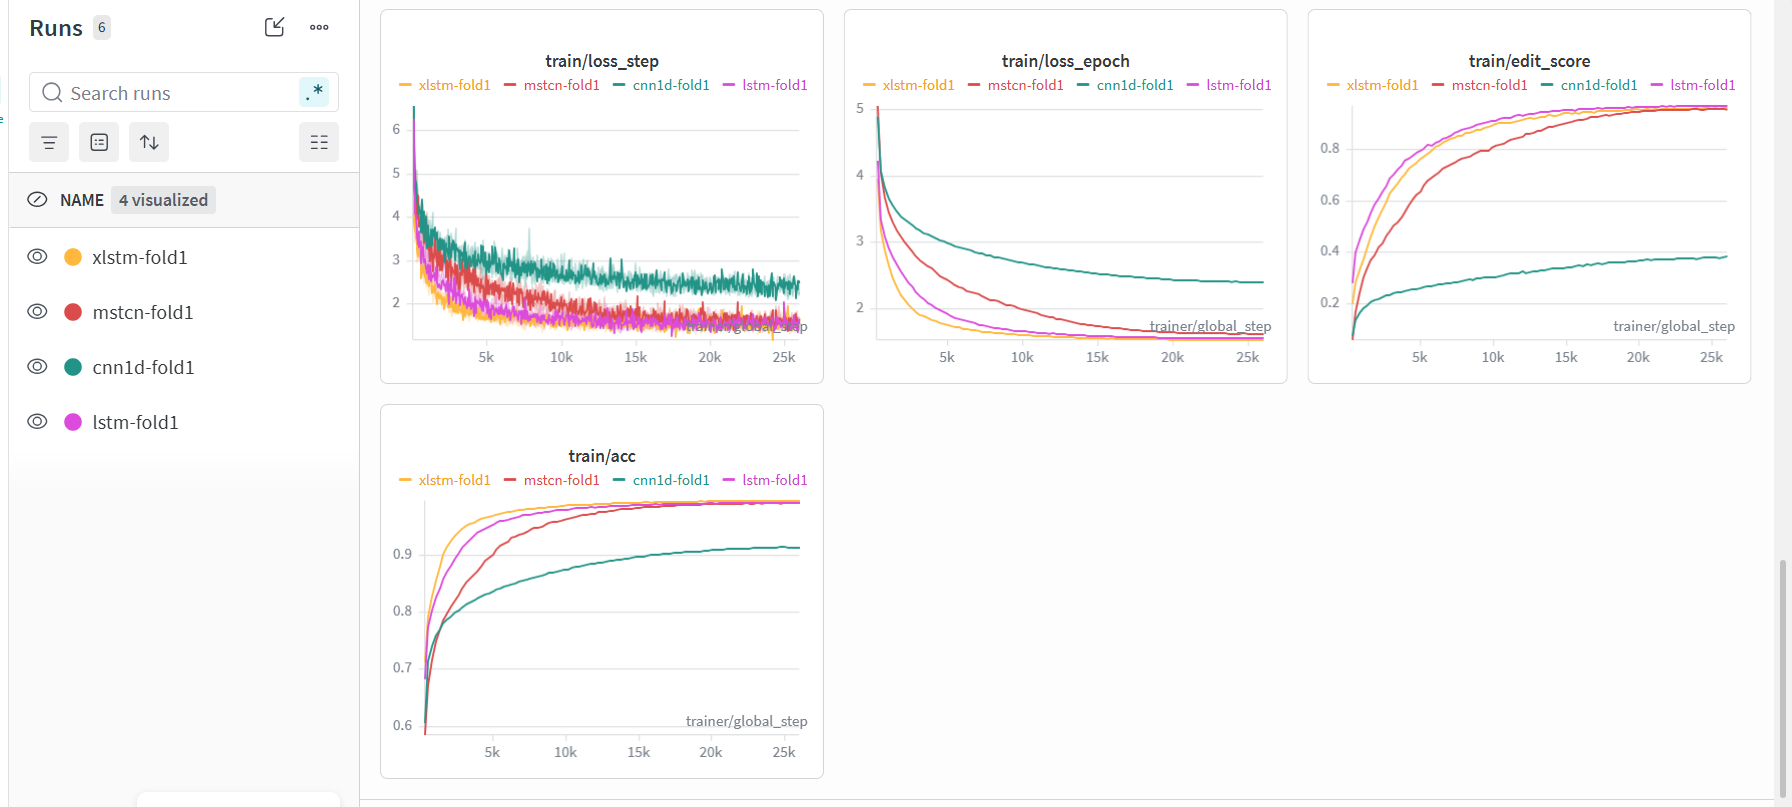
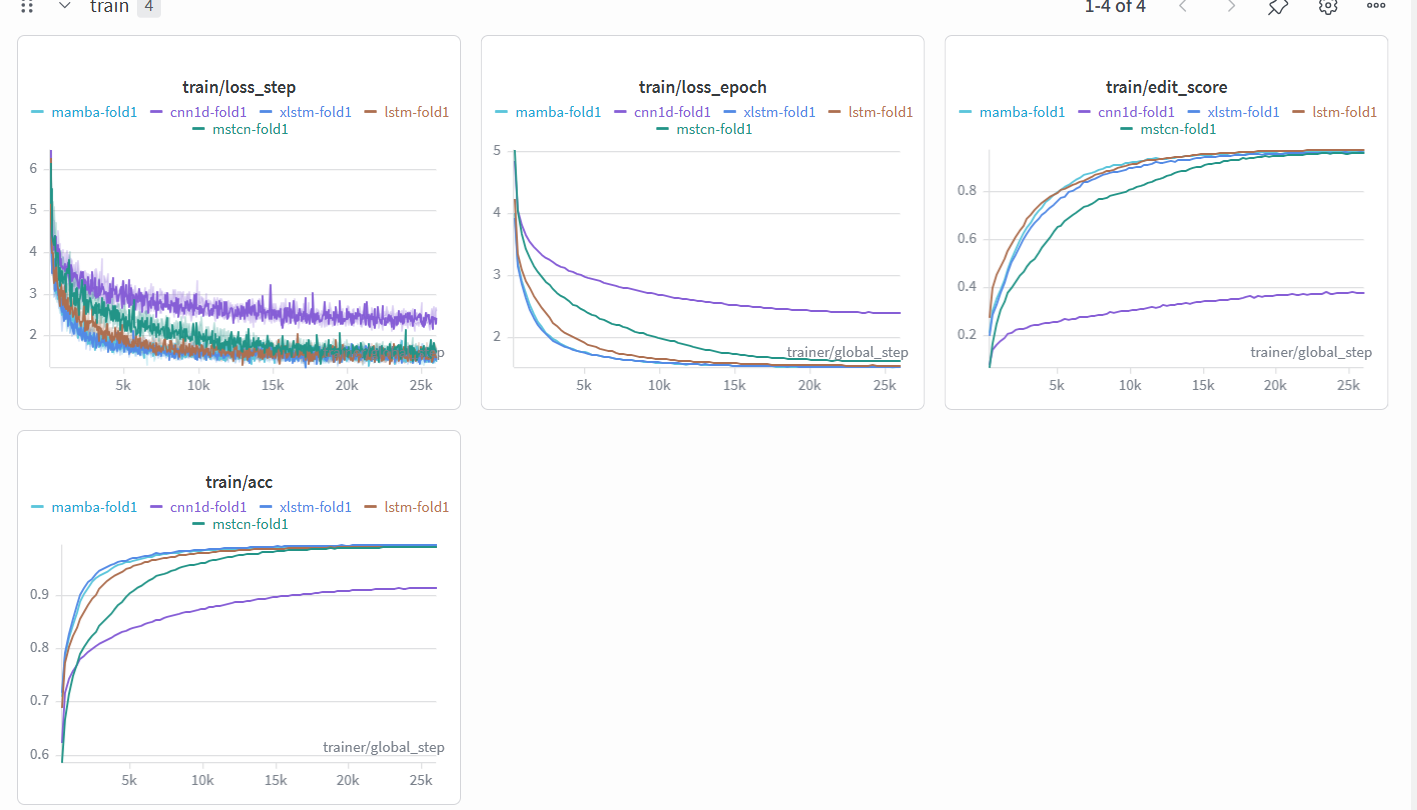
feat(docs): Update REPORT.md and relazione.tex with Mamba analysis

diff --git a/docs/relazione.tex b/docs/relazione.tex
@@ -375,6 +375,8 @@ Rispetto all'LSTM bidirezionale, Mamba opera in modo causale (forward only):
 non ha accesso al futuro, ma la selective scan con stato
 $d_{\text{state}}=16$ permette di mantenere un contesto efficace su centinaia
 di frame. Si usa la libreria ufficiale \texttt{mamba-ssm}.
+L'analisi qualitativa degli errori \`e riportata in
+Sezione~\ref{sec:qual_mamba}.
 
 \subsection{MS-TCN++}
 MS-TCN++ \cite{li2020mstcn2} \`e un'implementazione fedele al repository
@@ -398,12 +400,6 @@ risolverla. Con 10 layer e dilation fino a $2^9=512$ il campo recettivo
 copre l'intera finestra di 128 frame --- come LSTM ma completamente
 parallelizzabile, poiché le convoluzioni non hanno dipendenze sequenziali.
 
-\begin{figure}[H]
-\centering
-\includegraphics[width=\textwidth]{notebooks/mstcn_pipeline_output.png}
-\caption{Pipeline MS-TCN++: stage di Prediction Generation seguito dagli
-         stage di Refinement.}
-\end{figure}
 
 %%% SEZIONE 4 %%%
 \section{Metodologia di Training}
@@ -835,7 +831,8 @@ ma su numeri di frame troppo piccoli per costituire un errore sistematico.
 \subsection{Mamba}
 \label{sec:qual_mamba}
 
-Mamba mostra un profilo quasi identico a xLSTM: anticipa l'inizio di 2.4 frame
+Mamba mostra un profilo quasi identico a xLSTM (architettura in
+Sezione~\ref{sec:mamba}): anticipa l'inizio di 2.4 frame
 e ritarda la fine di 2.0 frame, con deviazione standard (25.0 / 22.9 frame)
 analoga a xLSTM (29.4 / 11.6) e molto inferiore a MS-TCN++ e LSTM ($\sim$57--64
 frame). La mediana nulla su entrambi gli estremi indica che la maggioranza delle
@@ -879,7 +876,7 @@ lunghe in modo analogo al memory mixing di xLSTM.
 
 \begin{figure}[H]
 \centering
-\includegraphics[width=\textwidth]{figures/eval/mamba_mamba-1779982759-fold1/boundary_errors.png}
+\includegraphics[width=\textwidth]{figures/eval/mamba-1779982759/boundary_errors.png}
 \caption{Mamba: errori di confine quasi nulli su 2021 clip
          (inizio $-2.4$, fine $+2.0$), profilo paragonabile a xLSTM.}
 \label{fig:boundary_mamba}
@@ -926,18 +923,25 @@ segmenti sono disgiunti (IoU $= 0$) e il decay non scatterebbe mai.
 MS-TCN++ & $-9.7$ & $-9.4$ & $+10.4$ & $+10.3$ \\
 LSTM     & $-8.6$ & $-8.6$ & $+9.2$  & $+9.0$  \\
 xLSTM    & $-2.6$ & $-2.2$ & $+1.0$  & $+0.1$  \\
+Mamba    & $-2.4$ & $-1.6$ & $+2.0$  & $+1.5$  \\
 CNN1D    & $-4.1$ & $-4.1$ & $+5.1$  & $+4.9$  \\
 \bottomrule
 \end{tabular}
 \end{table}
 
-Soft-NMS produce effetti reali ma contenuti su tutti e quattro i modelli.
+Soft-NMS produce effetti reali ma contenuti su tutti e cinque i modelli.
 La riduzione pi\`u evidente \`e sull'errore di fine di xLSTM ($+1.0 \to +0.1$)
-e sulla top confusion di MS-TCN++ ($138 \to 133$ frame). L'effetto \`e limitato
-dalla coerenza delle finestre sovrapposte: se due finestre concordano gi\`a
-sulla stessa classe, la proposta pi\`u debole ha score comunque alto e il decay
-non la sopprime. Il beneficio sarebbe maggiore su modelli meno precisi o con
-$\sigma$ pi\`u piccolo (decay pi\`u aggressivo).
+e sulla top confusion di MS-TCN++ ($138 \to 133$ frame).
+Mamba beneficia di una riduzione degli errori di confine
+(inizio $-2.4 \to -1.6$, fine $+2.0 \to +1.5$), ma la top confusion cambia:
+la coppia originale (\textit{Take plate} $\to$ \textit{Put eating\_utensil},
+12 frame) scende sotto soglia e la nuova top \`e
+\textit{Mix mixture} $\to$ \textit{Mix egg} a 16 frame --- segno che
+Soft-NMS redistribuisce le predizioni senza eliminare le ambiguit\`a semantiche.
+L'effetto \`e limitato dalla coerenza delle finestre sovrapposte: se due
+finestre concordano gi\`a sulla stessa classe, la proposta pi\`u debole ha
+score comunque alto e il decay non la sopprime. Il beneficio sarebbe maggiore
+su modelli meno precisi o con $\sigma$ pi\`u piccolo (decay pi\`u aggressivo).
 
 %%% SEZIONE 7 %%%
 \section{Conclusioni}

diff --git a/docs/REPORT.md b/docs/REPORT.md
@@ -43,8 +43,7 @@ Rispetto al semplice uso di codice esistente, i contributi tecnici principali so
 - Loss combinata CE + Smooth + Boundary con motivazione esplicita per ciascun termine.
 - Sliding window in validazione con overlap 50% per una valutazione riproducibile.
 - Data augmentation temporale (shift casuale delle label) per ridurre il bias di anticipazione/ritardo.
-- **Pipeline di estrazione feature DINOv3**: script di estrazione streaming (`src/utils/extract_dinov3_features.py`) che processa i video raw EGTEA frame per frame con DINOv3 ViT-B (`facebook/dinov3-vitb16-pretrain-lvd1689m`), producendo vettori d = 768 per frame salvati come file `.npy` memory-mapped. L'approccio streaming evita il caricamento dell'intero video in RAM (rischio OOM su video da ~70 GB di frame).
-
+- **Pipeline di estrazione feature DINOv3**: script di estrazione streaming (`src/utils/extract_dinov3_features.py`) che processa i video raw EGTEA frame per frame con DINOv3 ViT-B (`facebook/dinov3-vitb16-pretrain-lvd1689m`), producendo vettori d = 768 per frame salvati come file `.npy` memory-mapped.
 ---
 
 ## 3. Data Used
@@ -434,9 +433,10 @@ Senza questo adattamento (Soft-NMS sull'argmax denso), i segmenti sarebbero semp
 | MS-TCN++ | −9.7 | −9.4 | +10.4 | +10.3 | Put→Cut cucumber: 138 → 133 |
 | LSTM     | −8.6 | −8.6 | +9.2  | +9.0  | Put→Cut cucumber: 37 → 36   |
 | xLSTM    | −2.6 | −2.2 | +1.0  | +0.1  | Move Around bacon→Take: 17 → 17 |
+| Mamba    | −2.4 | −1.6 | +2.0  | +1.5  | Take plate→Put utensil: 12 → Mix→Mix egg: 16 |
 | CNN1D    | −4.1 | −4.1 | +5.1  | +4.9  | Mix mixture→Mix egg: 781 → 780 |
 
-Soft-NMS produce effetti reali ma contenuti su tutti e quattro i modelli. La riduzione più evidente è sull'errore di fine azione di xLSTM (+1.0 → +0.1) e sulla top confusion di MS-TCN++ (138 → 133 frame). L'effetto è limitato dalla coerenza delle finestre sovrapposte: se due finestre concordano già sulla stessa classe, la proposta più debole ha score comunque alto e il decay non la sopprime. Il beneficio maggiore si otterrebbe su modelli meno precisi o con σ più piccolo (decay più aggressivo).
+Soft-NMS produce effetti reali ma contenuti su tutti e cinque i modelli. La riduzione più evidente è sull'errore di fine azione di xLSTM (+1.0 → +0.1) e sulla top confusion di MS-TCN++ (138 → 133 frame). Mamba beneficia anch'esso di una riduzione degli errori di confine (inizio −2.4 → −1.6, fine +2.0 → +1.5), ma la top confusion cambia: la coppia originale (Take plate → Put eating_utensil: 12 frame) scende sotto soglia e la nuova top è Mix mixture → Mix egg a 16 frame — segno che soft-NMS redistribuisce le predizioni senza eliminare le ambiguità semantiche. L'effetto è limitato dalla coerenza delle finestre sovrapposte: se due finestre concordano già sulla stessa classe, la proposta più debole ha score comunque alto e il decay non la sopprime. Il beneficio maggiore si otterrebbe su modelli meno precisi o con σ più piccolo (decay più aggressivo).
 
 **Nota sull'adattamento.** Applicare Soft-NMS **dopo** la media dei logit e l'argmax non funziona: i segmenti estratti da una predizione densa sono non sovrapposti per costruzione (IoU = 0 sempre), quindi il decay non scatterebbe mai. La chiave è operare **prima** della media, raccogliendo proposte da ogni finestra di inferenza. Le finestre con stride < seq_len producono proposte sovrapposte, rendendo l'algoritmo applicabile esattamente come nel dominio detection.
 
